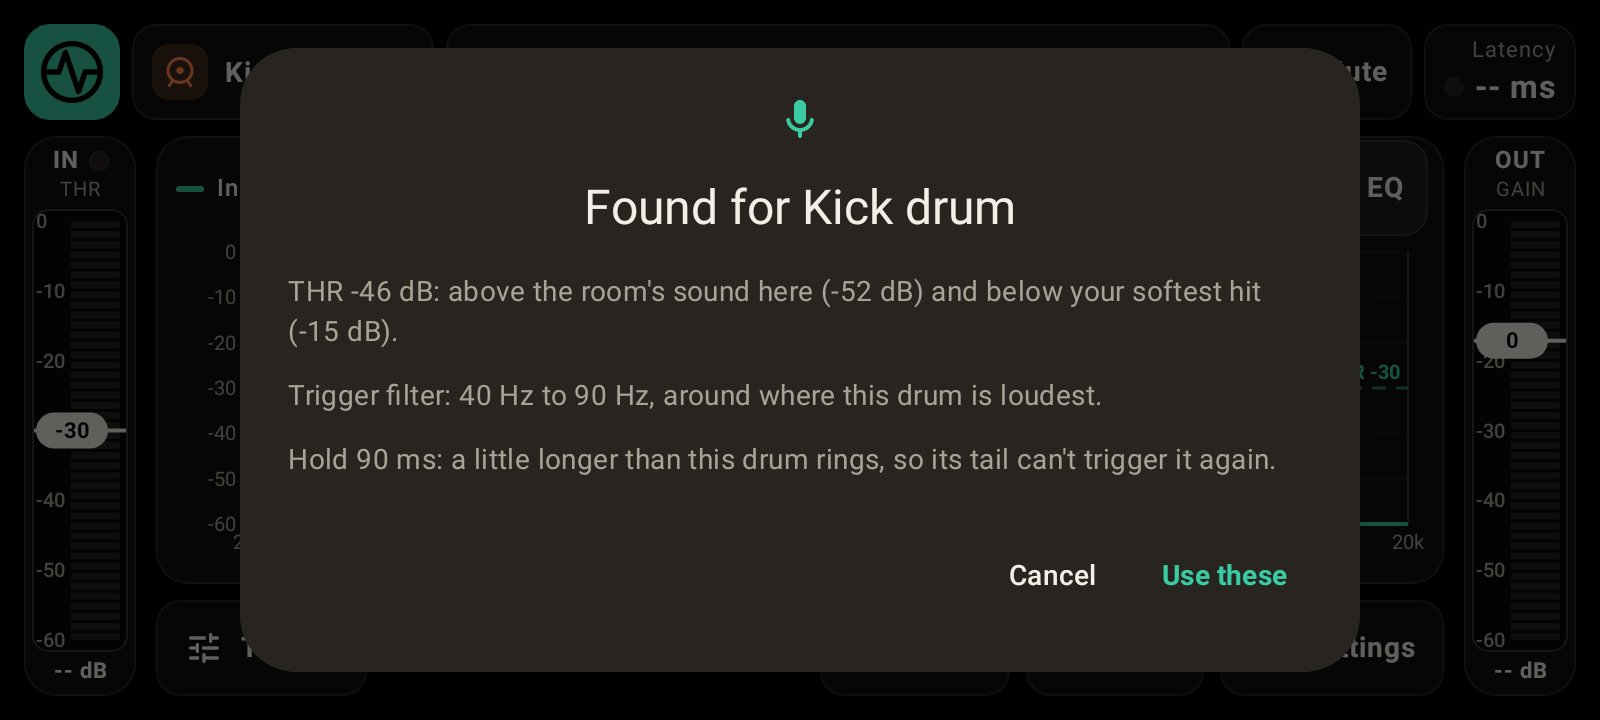
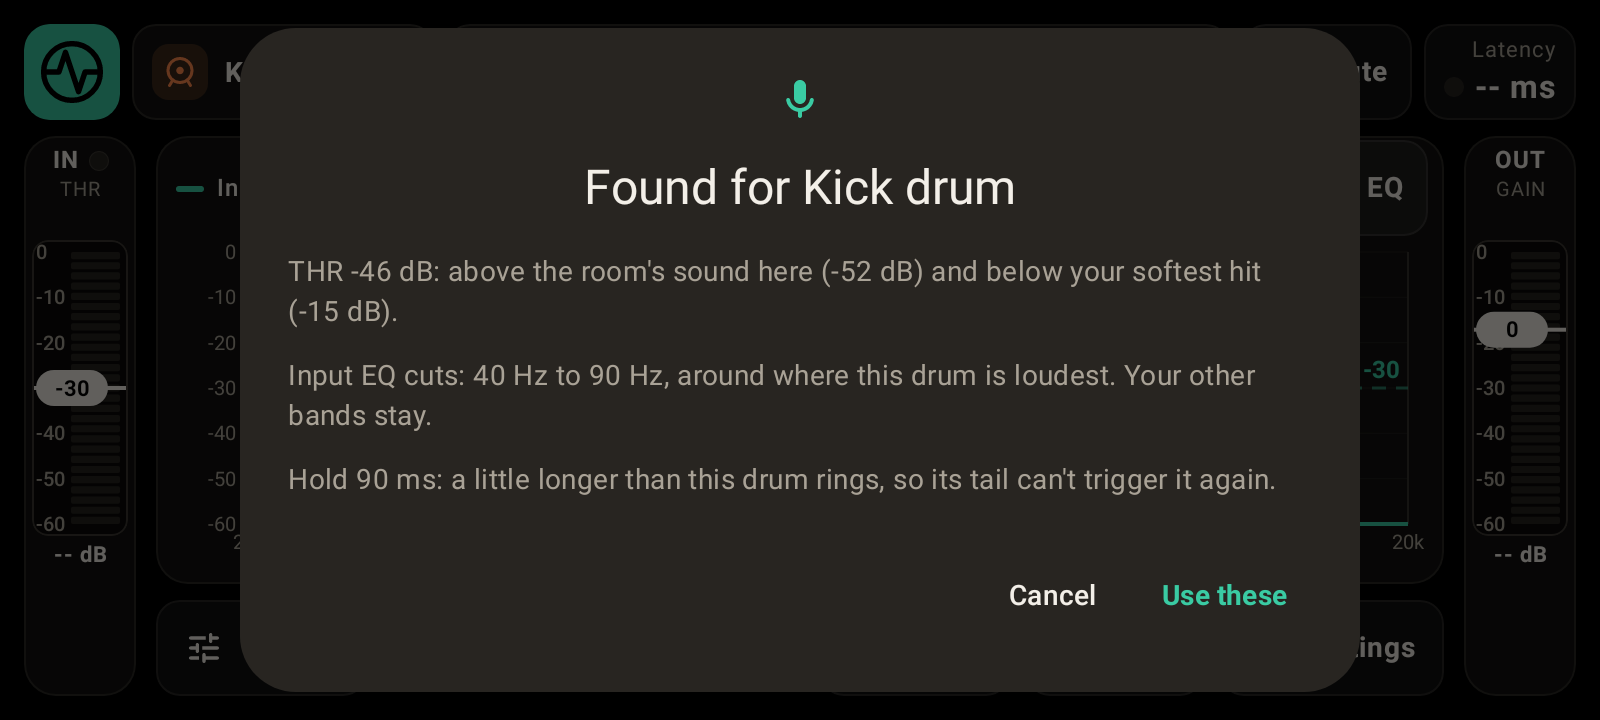
README: Input EQ, the sample editor and the limiter, with current screenshots
The page still described the trigger filter and a per-sample EQ. It now
describes Input EQ on the graph, the two-step sample editor, automatic
Hold, the limiter that keeps the output from clipping, and where the
latency comes from. The pictures are from 0.41.1, with two new ones of
the sample editor.

Claude-Session: https://claude.ai/code/session_01CanfjeTbmMFMTTSnr8zzQ8

diff --git a/README.md b/README.md
@@ -2,22 +2,25 @@
 
 **DrumTrig** turns an Android phone into a live drum trigger. A mic on a drum (or an audio interface) goes in, and the phone plays the sound you chose, with as little delay as the phone can manage.
 
-![The live screen: the input and output meters either side, and the graph of the last hit in the middle](screenshots/live.png)
+![The live screen: the IN and OUT meters either side, and the graph of the incoming sound in the middle](screenshots/live.png)
 
 ## What it does
 
-- **Triggers from any mic.** Set the threshold (THR) on the input meter and a trigger filter on the graph, so only your drum fires the sound and the rest of the kit doesn't.
-- **Set by hitting.** Leave the drum alone for a moment, hit it a few times, and DrumTrig suggests the threshold, the filter and the hold time for you.
-- **Plays the sound you choose.** Bundled sounds, recorded drum kits (a free download inside the app), or your own samples. Each sample has its own EQ.
-- **Shows its delay.** The latency of every hit is measured and shown, with settings to bring it down.
-- **Made for the stage.** A big-type Stage view, Lock so nothing changes mid-song by accident, Mute, and a light and a dark look.
+- **Triggers from any mic.** Set the threshold (THR) on the IN meter, and shape the incoming sound with **Input EQ** on the graph, so only your drum fires the sound and the rest of the kit doesn't. The graph shows the sound as the trigger hears it.
+- **Set by hitting.** Leave the drum alone for a moment, hit it a few times, and DrumTrig suggests the threshold, the Input EQ cuts and the hold time for you. Even without it, Hold sets itself for each kind of drum, and you can still change it.
+- **Plays the sound you choose.** Bundled sounds, recorded drum kits (a free download inside the app), or your own samples. Every sample opens in the sample editor: trim it to the hit, fade the end, set its level, then shape it with its own EQ. The file itself is never changed.
+- **Never clips.** However hard you hit and however high GAIN goes, a limiter turns only the loudest moments down, with no added delay.
+- **Shows its delay.** The latency of every hit is measured and shown, and **Settings › Latency** explains where it comes from, with settings to bring it down.
+- **Made for the stage.** A big-type Stage view, Lock so nothing changes mid-song by accident, Mute, a message if your audio device disconnects, and a light and a dark look.
 
 | | |
 |---|---|
-| ![The Trigger menu: filter, hold, delay, response](screenshots/trigger-menu.png) | ![Set by hitting, showing the threshold, filter and hold it found](screenshots/set-by-hitting.png) |
-| **Trigger menu**: when a hit counts and how it plays, kept per instrument. | **Set by hitting**: the threshold, filter and hold, found from the drum itself. |
-| ![The EQ on the graph, with four bands over the sample's spectrum](screenshots/eq.png) | ![The Stage view: the instrument, the input meter, a big latency figure](screenshots/stage.png) |
-| **EQ**: up to seven bands per sample, drawn over its sound. | **Stage**: what matters mid-song, readable from behind the kit. |
+| ![The Trigger menu: Input EQ, Hold, Automatic Hold, Range and Response](screenshots/trigger-menu.png) | ![Set by hitting, showing the threshold, Input EQ cuts and hold it found](screenshots/set-by-hitting.png) |
+| **Trigger menu**: when a hit counts and how it plays, kept per instrument. | **Set by hitting**: the threshold, the Input EQ cuts and the hold, found from the drum itself. |
+| ![Input EQ on the graph, with four bands](screenshots/eq.png) | ![The Stage view: the instrument, the input meter, a big latency figure](screenshots/stage.png) |
+| **Input EQ**: up to seven bands per instrument, shaping what reaches THR. | **Stage**: what matters mid-song, readable from behind the kit. |
+| ![The sample editor's first step: the waveform with start, end and fade-out](screenshots/sample-editor.png) | ![The sample editor's second step: Sample EQ over the sample's sound](screenshots/sample-editor-eq.png) |
+| **Sample editor, step 1**: cut it to the hit and set its level. | **Sample editor, step 2**: shape its sound, with Repeat playing it while you change things. |
 
 ![The live screen in the light look](screenshots/live-light.png)
 
